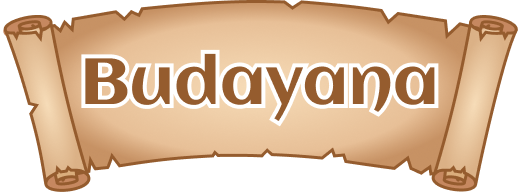
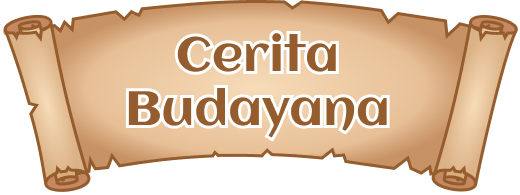
frontend loh ya

Changed region(s): [[0.1538, 0.1538, 0.8615, 0.7385]]

diff --git a/budayana-web/src/pages/games/GamePage.jsx b/budayana-web/src/pages/games/GamePage.jsx
@@ -257,7 +257,7 @@ const StoryAudioPlayerPage = ({
         </div>
 
         {/* Audio Player UI */}
-        <div className='w-[95%] md:w-[95%] border-[3px] border-[#8e5c3b] bg-transparent rounded-full px-4 md:px-8 py-3 flex items-center justify-between mx-auto gap-4 md:gap-6'>
+        <div className='w-[95%] md:w-[100%] border-[3px] border-[#8e5c3b] bg-transparent rounded-3xl md:rounded-full px-5 md:px-8 py-4 md:py-3 flex flex-wrap md:flex-nowrap items-center justify-between mx-auto'>
           {audioUrl && (
             <audio
               ref={audioRef}
@@ -270,54 +270,56 @@ const StoryAudioPlayerPage = ({
             />
           )}
 
-          {/* Play/Pause Button */}
-          <button
-            onClick={handlePlay}
-            disabled={!audioLoaded && audioUrl}
-            className='text-[#8e5c3b] flex-shrink-0 transition-transform hover:scale-105 active:scale-95 flex items-center justify-center w-8 h-8 disabled:opacity-50'
-          >
-            {(!audioLoaded && audioUrl) ? (
-              <div className="animate-spin rounded-full h-6 w-6 border-2 border-[#8e5c3b] border-t-transparent"></div>
-            ) : (
-              isPlaying ? <Pause size={32} fill="currentColor" /> : <Play size={32} fill="currentColor" />
-            )}
-          </button>
+          {/* 1. Progress Bar: Full width on mobile (Top), Flexible middle on desktop */}
+          <div className='w-full md:w-auto md:flex-1 order-1 md:order-2 mb-3 md:mb-0 md:mx-6 flex items-center'>
+            <input
+              ref={progressBarRef}
+              type="range"
+              min="0"
+              max={duration || 100}
+              step="0.01"
+              defaultValue={currentTime}
+              onChange={(e) => {
+                const val = Number(e.target.value)
+                setCurrentTime(val)
+                if (audioRef.current) audioRef.current.currentTime = val
 
-          {/* Time */}
-          <span ref={timeDisplayRef} className='font-regular text-[#1f1f1f] text-sm md:text-base flex-shrink-0 w-24 text-center'>
-            {formatAudioTime(currentTime)} / {formatAudioTime(duration)}
-          </span>
+                const durationVal = duration || 1;
+                const progressPct = durationVal > 0 ? (val / durationVal) * 100 : 0;
+                e.target.style.setProperty('--progress-bg', `linear-gradient(to right, #8e5c3b ${progressPct}%, #e0d6c8 ${progressPct}%)`);
 
-          {/* Progress Bar */}
-          <input
-            ref={progressBarRef}
-            type="range"
-            min="0"
-            max={duration || 100}
-            step="0.01"
-            defaultValue={currentTime}
-            onChange={(e) => {
-              const val = Number(e.target.value)
-              setCurrentTime(val)
-              if (audioRef.current) audioRef.current.currentTime = val
+                if (timeDisplayRef.current) {
+                  timeDisplayRef.current.innerText = `${formatAudioTime(val)} / ${formatAudioTime(durationVal)}`;
+                }
+              }}
+              className='w-full custom-audio-slider'
+              style={{
+                '--progress-bg': `linear-gradient(to right, #8e5c3b ${progressPercent}%, #e0d6c8 ${progressPercent}%)`
+              }}
+            />
+          </div>
 
-              const durationVal = duration || 1;
-              const progressPct = durationVal > 0 ? (val / durationVal) * 100 : 0;
-              e.target.style.setProperty('--progress-bg', `linear-gradient(to right, #8e5c3b ${progressPct}%, #e0d6c8 ${progressPct}%)`);
+          {/* 2. Play & Time: Bottom-left on mobile, Far-left on desktop */}
+          <div className='flex items-center gap-3 md:gap-4 order-2 md:order-1'>
+            <button
+              onClick={handlePlay}
+              disabled={!audioLoaded && audioUrl}
+              className='text-[#8e5c3b] flex-shrink-0 transition-transform hover:scale-105 active:scale-95 flex items-center justify-center w-8 h-8 md:w-10 md:h-10 disabled:opacity-50'
+            >
+              {(!audioLoaded && audioUrl) ? (
+                <div className="animate-spin rounded-full h-6 w-6 border-2 border-[#8e5c3b] border-t-transparent"></div>
+              ) : (
+                isPlaying ? <Pause size={32} fill="currentColor" /> : <Play size={32} fill="currentColor" />
+              )}
+            </button>
 
-              if (timeDisplayRef.current) {
-                timeDisplayRef.current.innerText = `${formatAudioTime(val)} / ${formatAudioTime(durationVal)}`;
-              }
-            }}
-            className='flex-1 custom-audio-slider'
-            style={{
-              '--progress-bg': `linear-gradient(to right, #8e5c3b ${progressPercent}%, #e0d6c8 ${progressPercent}%)`
-            }}
-          />
+            <span ref={timeDisplayRef} className='font-regular text-[#1f1f1f] text-sm md:text-base flex-shrink-0 w-20 md:w-24 text-left'>
+              {formatAudioTime(currentTime)} / {formatAudioTime(duration)}
+            </span>
+          </div>
 
-          {/* Replay & Volume Buttons Wrapper */}
-          <div className="flex gap-2 items-center flex-shrink-0">
-            {/* Replay Button */}
+          {/* 3. Replay & Volume: Bottom-right on mobile, Far-right on desktop */}
+          <div className="flex items-center gap-3 md:gap-4 order-3 md:order-3">
             <button
               onClick={() => {
                 setCurrentTime(0)
@@ -332,7 +334,6 @@ const StoryAudioPlayerPage = ({
               <img src="/assets/budayana/islands/replay-logo.png" alt="Replay" className="w-6 h-6 md:w-8 md:h-8 object-contain" />
             </button>
 
-            {/* Volume Button */}
             <button onClick={() => setIsMuted(!isMuted)} className='flex items-center justify-center w-8 h-8 hover:scale-105 active:scale-95 transition-transform'>
               {isMuted ? (
                 <img src="/assets/budayana/islands/speaker mute-logo.png" alt="Muted" className="w-6 h-6 md:w-8 md:h-8 object-contain" />

diff --git a/budayana-web/src/pages/Landing.css b/budayana-web/src/pages/Landing.css
@@ -51,7 +51,7 @@ body { margin: 0; min-height: 100vh; overflow-x: hidden; font-family: 'Fredoka O
     justify-content: center;
     align-items: flex-end;
     padding-top: 15% !important;
-    gap: 8%;
+    gap: 5%;
     padding: 140px 5% 0;
     padding-left: 2%;
 }
@@ -60,7 +60,7 @@ body { margin: 0; min-height: 100vh; overflow-x: hidden; font-family: 'Fredoka O
     max-width: 700px;
     position: relative;
     z-index: 2;
-    margin-bottom: -5%; /* Stand on ground wave */
+    margin-bottom: -8%; /* Stand on ground wave */
 }
 .lnd-hero-text {
     display: flex;
@@ -69,8 +69,10 @@ body { margin: 0; min-height: 100vh; overflow-x: hidden; font-family: 'Fredoka O
     position: relative;
     z-index: 2;
     padding-bottom: 80px;
+    margin-top: -4%;
 }
-.lnd-banner { width: 420px; margin-bottom: 20px; }
+.lnd-banner { width: 420px;  }
+
 .lnd-hero-sub {
     font-family: 'Fredoka One', sans-serif;
     color: #955C2E;
@@ -97,7 +99,7 @@ body { margin: 0; min-height: 100vh; overflow-x: hidden; font-family: 'Fredoka O
 /* Ground Wave */
 .lnd-ground-wave {
     width: 100%;
-    margin-top: -6%;
+    margin-top: -3%;
     position: relative;
     z-index: 1;
     display: block;
@@ -293,7 +295,7 @@ body { margin: 0; min-height: 100vh; overflow-x: hidden; font-family: 'Fredoka O
     font-size: 1.1rem;
     text-align: center;
     margin-bottom: 40px;
-    font-weight: normal;
+    font-weight: 400;
 }
 .lnd-contact-info {
     display: flex;
@@ -330,7 +332,7 @@ body { margin: 0; min-height: 100vh; overflow-x: hidden; font-family: 'Fredoka O
     .lnd-navbar-container { display: none; }
     .lnd-hero { flex-direction: column; padding-top: 80px !important; padding-left: 5% !important; align-items: center; gap: 0; }
     .lnd-hero-text { order: 1; padding-bottom: 30px; }
-    .lnd-hero-mascots { order: 2; width: 80%; margin-bottom: -5px; }
+    .lnd-hero-mascots { order: 2; width: 80%; margin-bottom: -40px; }
     .lnd-ground-wave { margin-top: -1%; }
     .lnd-grid-islands { grid-template-columns: repeat(2, 1fr); padding: 0 10px; }
     .lnd-about-content { flex-direction: column; text-align: center; gap: 30px; }

diff --git a/budayana-web/src/pages/Landing.jsx b/budayana-web/src/pages/Landing.jsx
@@ -12,7 +12,7 @@ export default function Landing() {
         <div className="page_landing">
             <div className="lnd-navbar-container">
                 <div className="lnd-navbar">
-                    <img src="/assets/budayana/islands/Budayana text.png" alt="Budayana" className="lnd-logo" onClick={() => window.scrollTo(0, 0)} />
+                    <img src="/assets/budayana/islands/Cerita Budayana text.png" alt="Budayana" className="lnd-logo" onClick={() => window.scrollTo(0, 0)} />
                     <nav className="lnd-links">
                         <button onClick={() => scrollToSection("about")}>Tentang Kami</button>
                         <button onClick={() => scrollToSection("features")}>Fitur Utama</button>
@@ -26,6 +26,7 @@ export default function Landing() {
                 <img src="/assets/budayana/islands/Landing Group.png" alt="Mascot Group" className="lnd-hero-mascots" />
                 <div className="lnd-hero-text">
                     <img src="/assets/budayana/islands/Game Name.png" alt="Banner" className="lnd-banner" />
+                    
                     <h2 className="lnd-hero-sub">Platform Literasi<br/>Budaya untuk Siswa</h2>
                     <button className="lnd-daftar-btn" onClick={() => navigate('/sign-up')}>Daftar Akun</button>
                 </div>
@@ -40,7 +41,7 @@ export default function Landing() {
                         <img src="/assets/budayana/islands/Harimau.png" alt="Harimau" />
                     </div>
                     <div className="lnd-about-text-content">
-                        <p>Budayana adalah platform pembelajaran digital yang dirancang untuk membantu siswa mengenal dan memahami budaya Indonesia melalui pendekatan literasi berbasis cerita.</p>
+                        <p>Cerita Budayana adalah platform pembelajaran digital yang dirancang untuk membantu siswa mengenal dan memahami budaya Indonesia melalui pendekatan literasi berbasis cerita.</p>
                         <p>Kami menggabungkan teknologi dan nilai budaya untuk menciptakan pengalaman belajar yang ramah anak, mudah digunakan, dan relevan dengan kebutuhan pendidikan saat ini.</p>
                     </div>
                 </div>
@@ -78,11 +79,11 @@ export default function Landing() {
 
             <div id="contact" className="lnd-kontak">
                 <h1 className="lnd-title-white">Kontak Kami</h1>
-                <p className="lnd-kontak-sub">Punya pertanyaan, saran, atau ingin berkolaborasi? Jangan ragu untuk mengirimkan pesan kepada kami.</p>
+                <p className="lnd-kontak-sub">Punya pertanyaan, saran, atau ingin berkolaborasi?<br></br> Jangan ragu untuk mengirimkan pesan kepada kami.</p>
                 <div className="lnd-contact-info">
                    <div className="lnd-contact-row">
                       <img src="/assets/budayana/islands/email.png" alt="email" />
-                      <span>[email redacted]</span>
+                      <a href="mailto:[email redacted]" class="no-underline hover:underline">[email redacted]</a>
                    </div>
                 </div>
             </div>

diff --git a/budayana-web/src/pages/Home.css b/budayana-web/src/pages/Home.css
@@ -82,6 +82,10 @@
   justify-content: flex-end;
 }
 
+.profile:hover {
+  transform: scale(1.12);
+}
+
 .profile img {
   height: clamp(70px, 8vw, 100px);
   width: auto;

diff --git a/budayana-web/src/components/Sidebar.jsx b/budayana-web/src/components/Sidebar.jsx
@@ -55,7 +55,7 @@ export default function Sidebar() {
       />
 
       <aside className={`sidebar ${isOpen ? "open" : ""}`}>
-        <div className='sidebar-logo cursor-pointer'>
+        <div className='sidebar-logo cursor-pointer transition-transform duration-300 hover:scale-[1.05]'>
           <img src="/assets/budayana/islands/Budayana text.png" alt="Budayana" onClick={goToHome} />
         </div>
 

diff --git a/budayana-web/src/pages/HomePage.jsx b/budayana-web/src/pages/HomePage.jsx
@@ -197,7 +197,7 @@ const HomePage = () => {
         <img
           src='/assets/budayana/islands/Profile.png'
           alt='Profile'
-          className='w-12 h-12 rounded-full object-cover'
+          className='w-12 h-12 rounded-full object-cover '
         />
       </button>
 